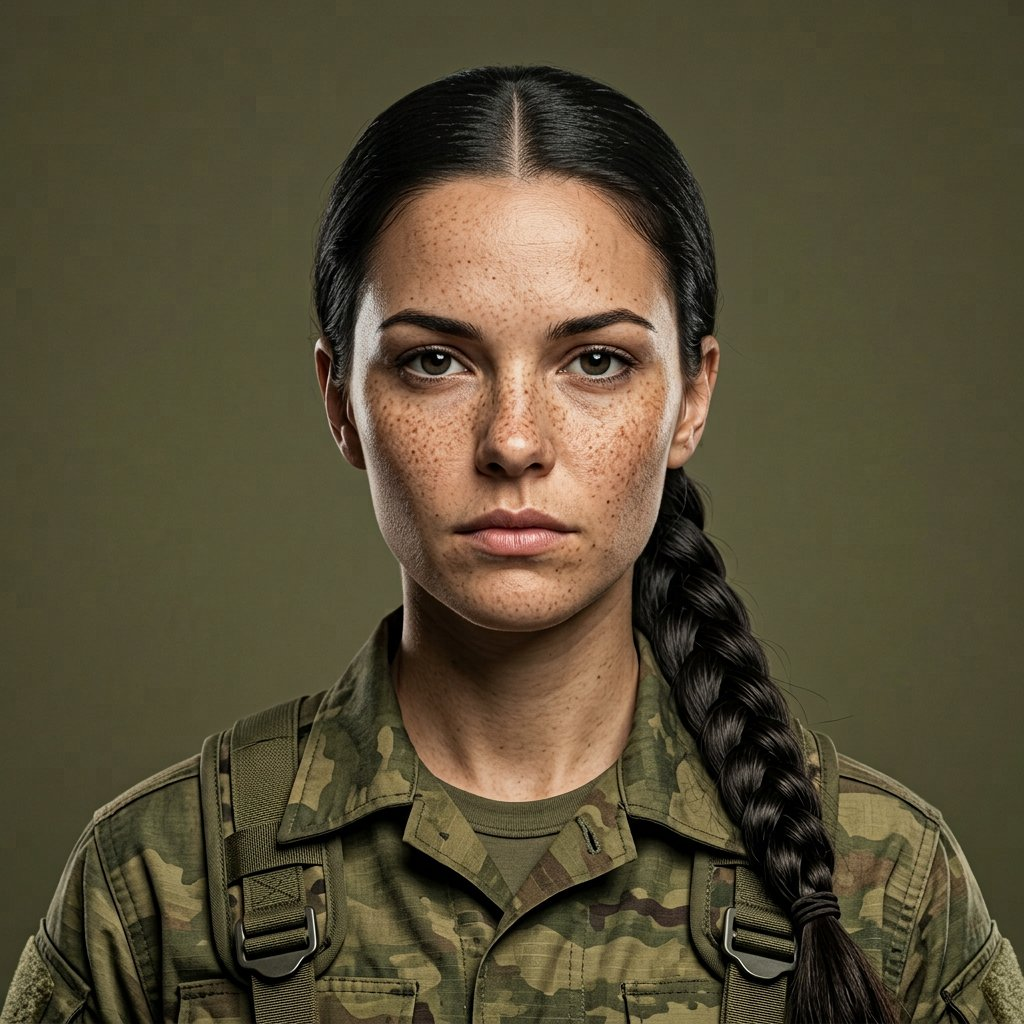
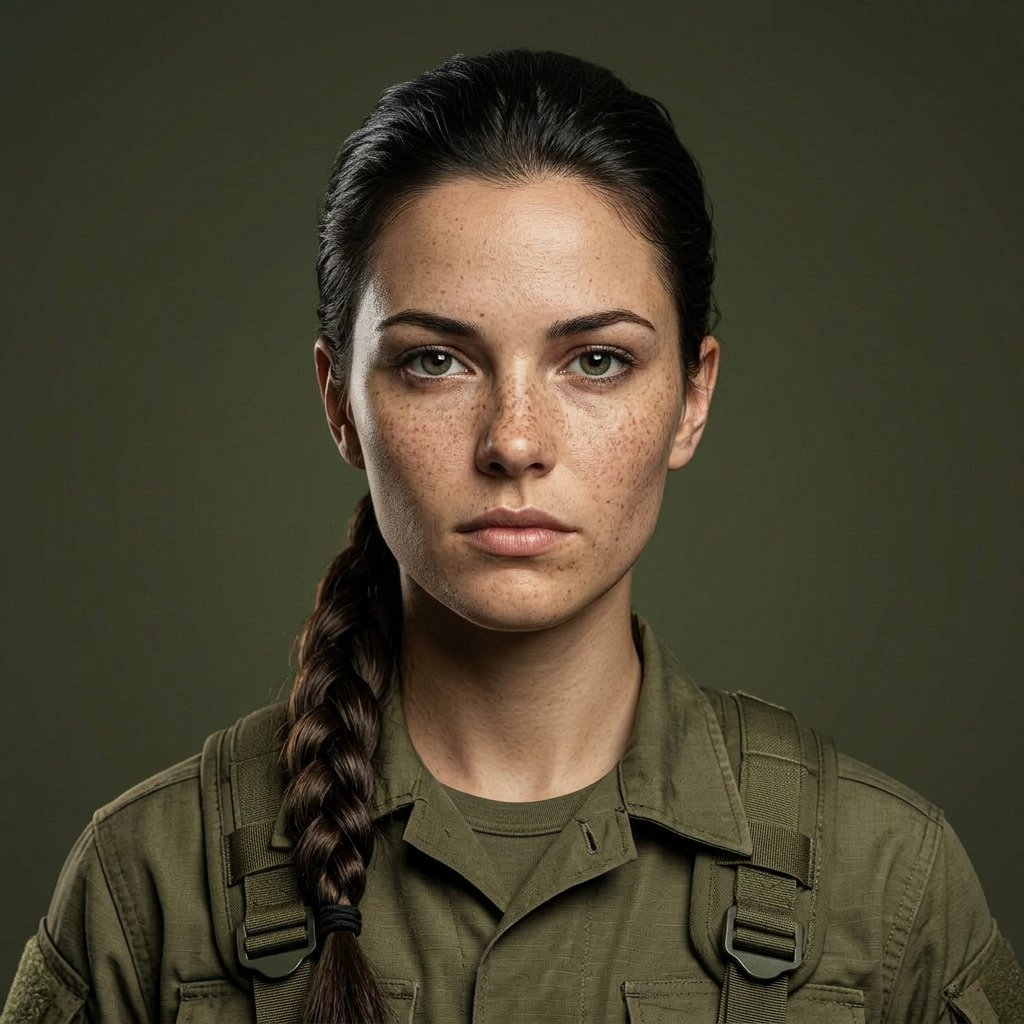
Option parity for women + big showcase preview
Reported: 'Frauen brauchen gleich viel Optionen wie Maenner' and the
big preview portrait 'ist nicht komplett sichtbar und zu klein'.

Parity - same number of choices for both genders (10 tiles each):
- three female faces now: f-slick joins f-crop and f-bun (a different
  woman: darker skin, strong eyebrows, slicked-back hair - generated
  as a person-swap edit of f-crop so pose, uniform, background and
  lighting stay identical)
- six female hair overlays: bob, long, ponytail plus NEW braid, bun and
  curly. The braid is the RETRY: the first attempt changed 66.4% of the
  image and was rejected by the coverage gate; the minimal-edit prompt
  landed at 19.4% and ships. Female: 3 faces + Basis+6 hairs = 10;
  male: 2 faces + Basis+3 hairs + no/full beard choices = 10
- legacyLook maps the old 'braid' save to the real braid overlay now
  (long hair stand-in no longer needed)

Preview page: the cramped 88-120px portrait in the head row becomes a
showcase - portrait at clamp(170px,52vw,240px) next to the dog tag
(size 160), name row full-width below.

Verification: composite check re-run with the engine math through the
face detector, 7/7 faces stay in place - including braid, curly and bun
on the NEW third face (q=88/52).

Token wave 20261112-layers2 (manifest, avatar-layers, preview). Suite
617/617.

diff --git a/IronPath/recruit-preview.html b/IronPath/recruit-preview.html
@@ -12,7 +12,12 @@
     body{margin:0}
     main{padding:18px 12px}
     .preview-note{max-width:520px;margin:0 auto 10px;font:700 9px/1.6 Arial,sans-serif;letter-spacing:.14em;text-transform:uppercase;color:#9fb3a0;text-align:center}
-    .recruit-portrait-canvas{flex:none;width:clamp(88px,24vw,120px);aspect-ratio:1;border:1px solid #525c54;border-top-color:#6d766e;border-radius:4px;background:#10231c;box-shadow:0 6px 18px var(--iron-shadow,rgba(8,12,9,.5))}
+    /* The big preview is the centrepiece, not a thumbnail: reported "nicht
+       komplett sichtbar und zu klein" when it sat cramped in the head row. */
+    .recruit-portrait-canvas{flex:none;width:clamp(170px,52vw,240px);aspect-ratio:1;display:block;border:1px solid #525c54;border-top-color:#6d766e;border-radius:4px;background:#10231c;box-shadow:0 6px 18px var(--iron-shadow,rgba(8,12,9,.5))}
+    .recruit-showcase{display:flex;gap:18px;align-items:center;justify-content:center;flex-wrap:wrap}
+    .recruit-showcase-side{display:grid;justify-items:center;gap:10px}
+    .recruit-showcase #recruitTag{max-width:38vw!important;height:auto!important}
     .recruit-look canvas{display:block;width:100%;height:100%;object-fit:cover;border-radius:2px}
     .layer-row[hidden]{display:none}
     .preview-combo{margin:0;font:700 10px/1.5 Arial,sans-serif;letter-spacing:.1em;color:#cdd8c2;text-transform:uppercase;text-align:center}
@@ -24,19 +29,21 @@
     <div class="entry recruiting">
       <div class="recruit-card">
         <div class="recruit-head">
-          <canvas id="portrait" class="recruit-portrait-canvas" role="img" aria-label="Portrait-Vorschau"></canvas>
           <div class="recruit-head-text">
             <span class="recruit-kicker">MUSTERUNG · NEU</span>
             <h2>Charakter-Erstellung</h2>
-            <p class="recruit-note">Gesicht, Haare und Bart sind jetzt getrennte Wahlen — unten im Filmstrip tippen, das große Portrait und die Dog-Tag folgen sofort.</p>
+            <p class="recruit-note">Gesicht, Haare und Bart sind getrennte Wahlen — unten im Filmstrip tippen, das große Portrait und die Dog-Tag folgen sofort.</p>
           </div>
         </div>
-        <div class="recruit-id">
-          <div id="tagSlot"></div>
-          <div class="recruit-name">
-            <label for="nameInput">NAME</label>
-            <input id="nameInput" maxlength="24" autocomplete="off" spellcheck="false" value="ROOK VALE">
+        <div class="recruit-showcase">
+          <canvas id="portrait" class="recruit-portrait-canvas" role="img" aria-label="Portrait-Vorschau"></canvas>
+          <div class="recruit-showcase-side">
+            <div id="tagSlot"></div>
           </div>
+        </div>
+        <div class="recruit-name">
+          <label for="nameInput">NAME</label>
+          <input id="nameInput" maxlength="24" autocomplete="off" spellcheck="false" value="ROOK VALE">
         </div>
         <div class="recruit-options" id="rows"></div>
         <p class="preview-combo" id="combo"></p>
@@ -48,13 +55,13 @@
     </div>
   </main>
   <script type="module">
-    import {layerOptions,composePortrait} from './avatar-layers.mjs?v=20261112-layers1';
+    import {layerOptions,composePortrait} from './avatar-layers.mjs?v=20261112-layers2';
     import {renderDogTagArt} from './dog-tag-art.mjs?v=20261112-recruit1';
 
     const DE={
       gender:{female:'WEIBLICH',male:'MÄNNLICH'},
-      faces:{crop:'GESICHT 1',bun:'GESICHT 2',buzz:'GESICHT 1',short:'GESICHT 2'},
-      hairs:{crop:'KURZ',bob:'BOB',long:'LANG',ponytail:'PFERDESCHWANZ',buzz:'BUZZ',side:'SEITENSCHEIDEL',medium:'MITTELLANG',short:'KURZ'},
+      faces:{crop:'GESICHT 1',bun:'GESICHT 2',slick:'GESICHT 3',buzz:'GESICHT 1',short:'GESICHT 2'},
+      hairs:{crop:'KURZ',bob:'BOB',long:'LANG',ponytail:'PFERDESCHWANZ',braid:'ZOPF',bun:'DUTT',curly:'LOCKEN',buzz:'BUZZ',side:'SEITENSCHEIDEL',medium:'MITTELLANG',short:'KURZ'},
       beards:{stubble:'STOPPEL',mustache:'SCHNURRBART',full:'VOLLBART'},
     };
 
@@ -70,7 +77,7 @@
 
     function paintTag(){
       tagSlot.replaceChildren();
-      tagCanvas=renderDogTagArt(document,tagSlot,{profile:{name:nameInput.value||'UNKNOWN',gender:state.gender,enlisted:'2026-11-12'}},{size:128});
+      tagCanvas=renderDogTagArt(document,tagSlot,{profile:{name:nameInput.value||'UNKNOWN',gender:state.gender,enlisted:'2026-11-12'}},{size:160});
     }
 
     async function paintPortrait(){
